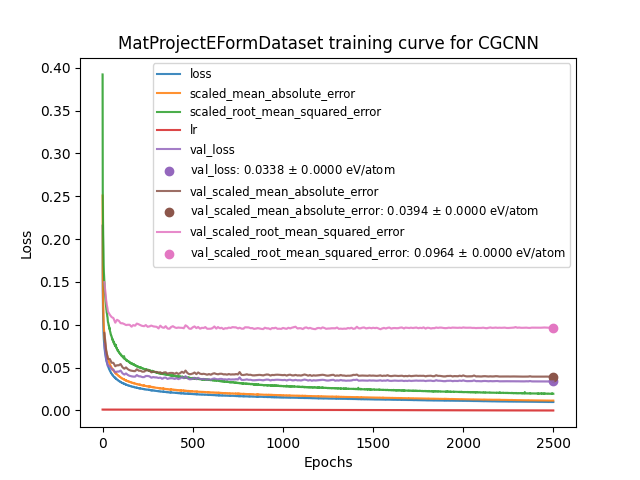
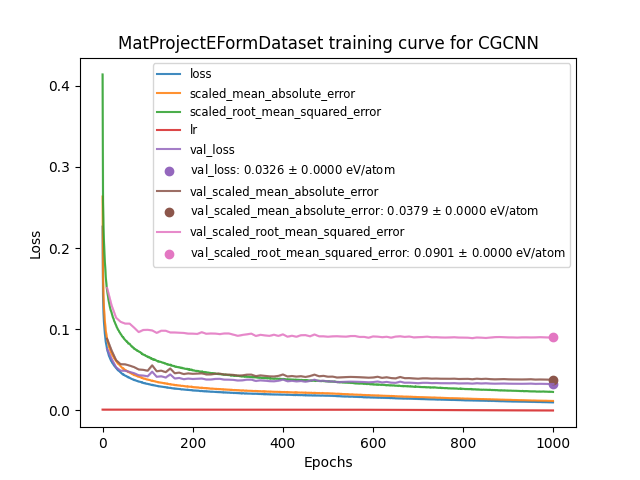
adjust CGCNN training

diff --git a/training/hyper/hyper_mp_e_form.py b/training/hyper/hyper_mp_e_form.py
@@ -301,7 +301,7 @@ hyper = {
                 'representation': 'unit',  # None, 'asu' or 'unit'
                 'expand_distance': True,
                 'make_distances': True,
-                'gauss_args': {'bins': 40, 'distance': 5, 'offset': 0.0, 'sigma': 0.4},
+                'gauss_args': {'bins': 60, 'distance': 6, 'offset': 0.0, 'sigma': 0.4},
                 'conv_layer_args': {
                     'units': 128,
                     'activation_s': 'kgcnn>shifted_softplus',
@@ -319,10 +319,10 @@ hyper = {
                                  "config": {"n_splits": 10, "random_state": None, "shuffle": True}},
             "execute_folds": 1,
             "fit": {
-                "batch_size": 64, "epochs": 2500, "validation_freq": 10, "verbose": 2,
+                "batch_size": 128, "epochs": 1000, "validation_freq": 10, "verbose": 2,
                 "callbacks": [
                     {"class_name": "kgcnn>LinearLearningRateScheduler", "config": {
-                        "learning_rate_start": 0.001, "learning_rate_stop": 0.5e-05, "epo_min": 250, "epo": 2500,
+                        "learning_rate_start": 0.001, "learning_rate_stop": 1e-05, "epo_min": 500, "epo": 1000,
                         "verbose": 0}
                      }
                 ]
@@ -344,7 +344,7 @@ hyper = {
                 "module_name": "kgcnn.data.datasets.MatProjectEFormDataset",
                 "config": {},
                 "methods": [
-                    {"map_list": {"method": "set_range_periodic", "max_distance": 5.0}}
+                    {"map_list": {"method": "set_range_periodic", "max_distance": 6.0}}
                 ]
             },
             "data_unit": "eV/atom"
